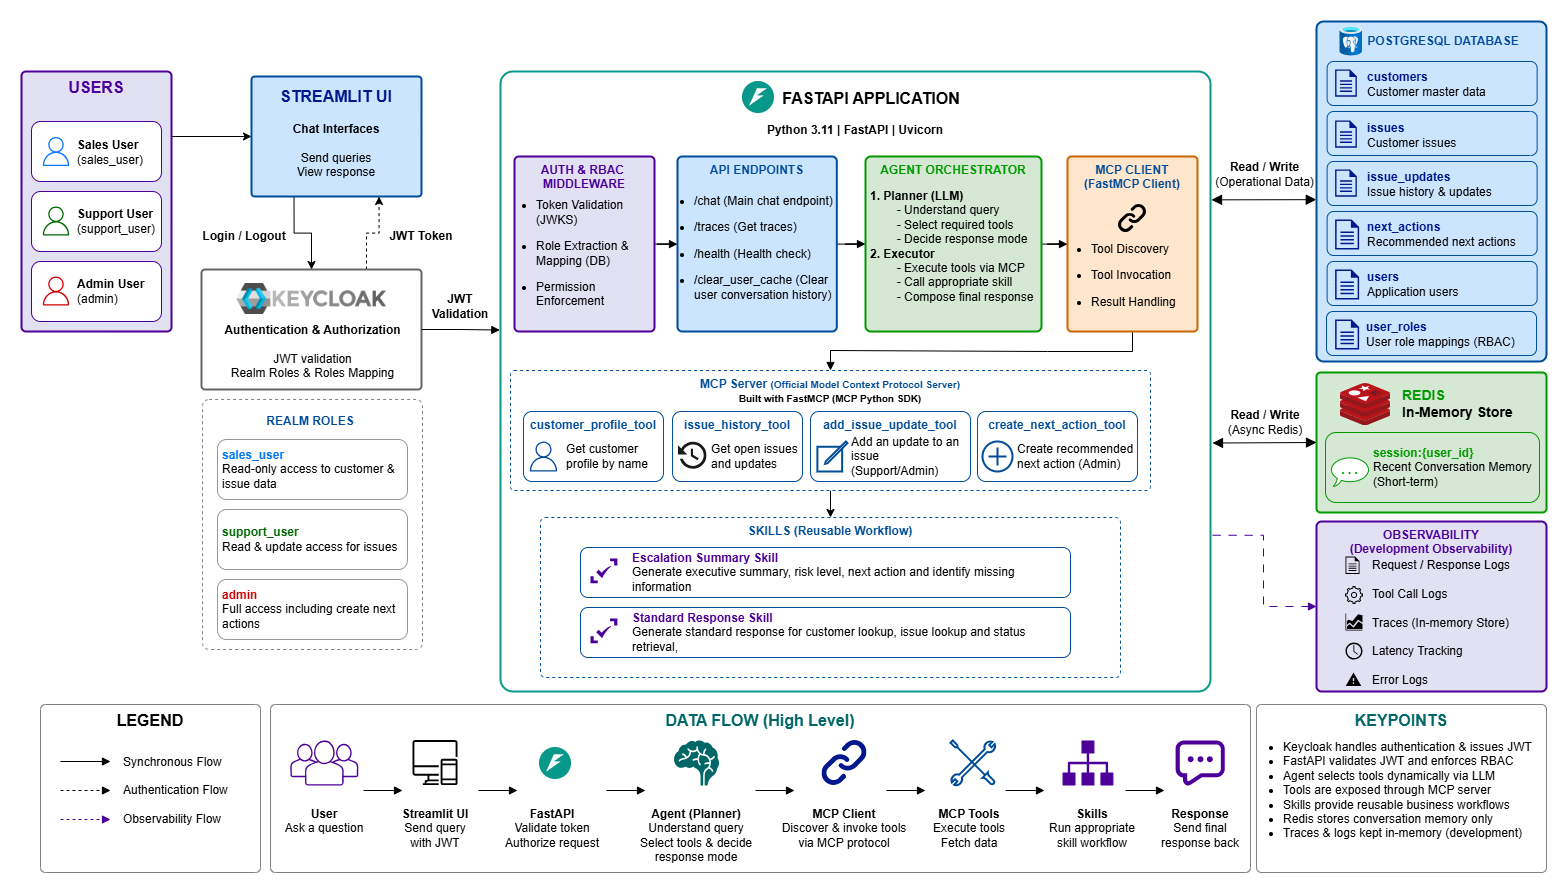
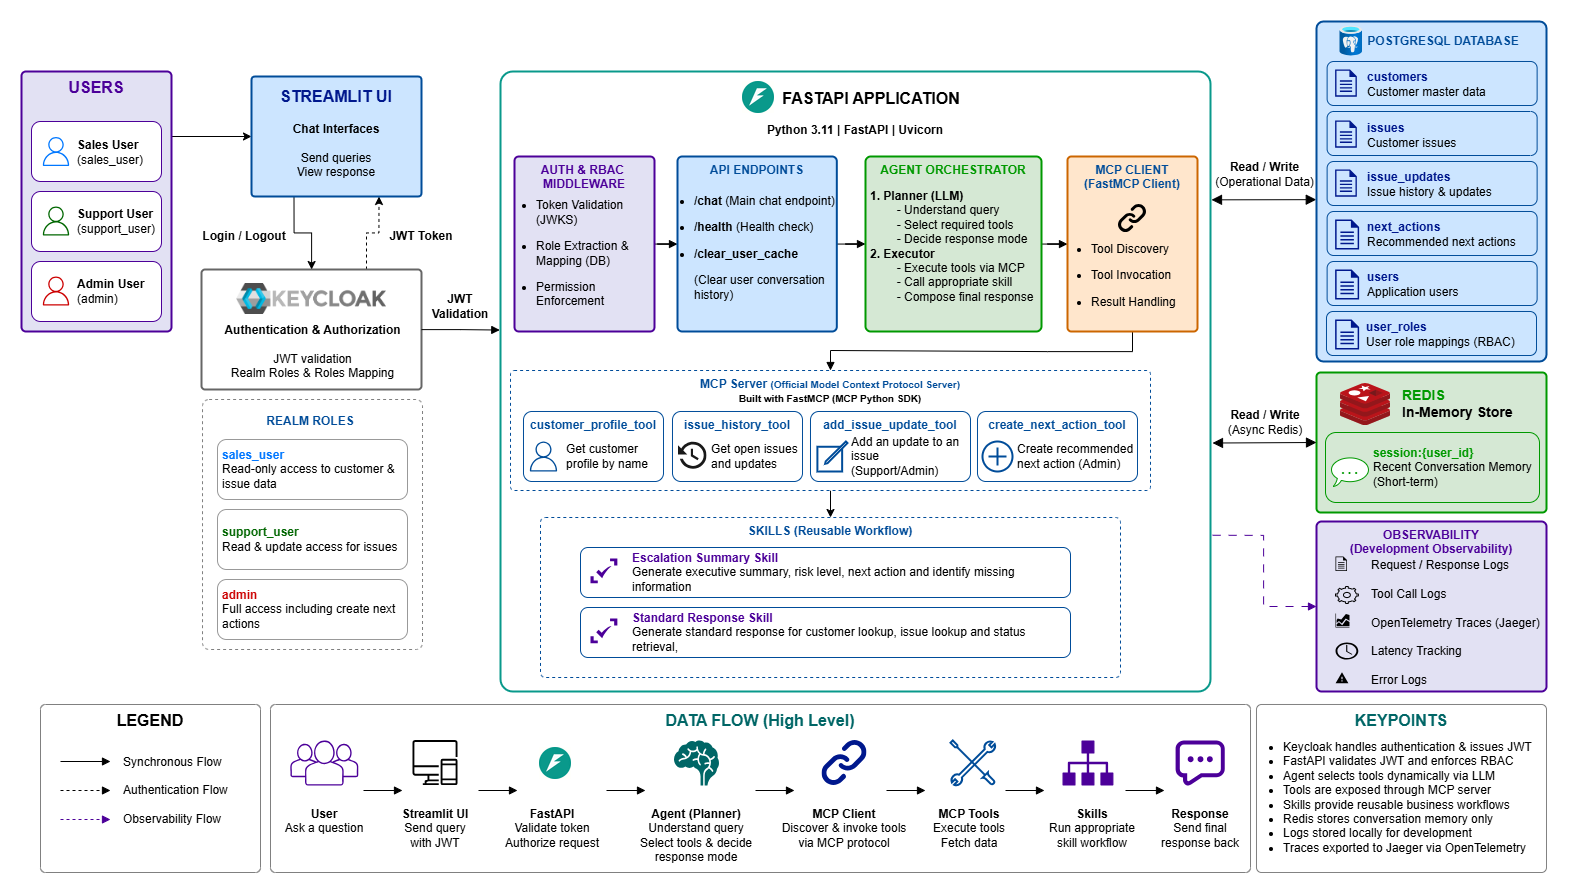
Twelfth commit

diff --git a/README.md b/README.md
@@ -75,7 +75,6 @@ Responsibilities include:
 
 Key endpoints include:
 - `/chat`
-- `/traces`
 - `/health`
 - `/clear_user_cache`
 
@@ -135,6 +134,12 @@ Benefits include:
 - Reusable integrations
 - Simplified agent architecture
 - Easier future integrations with enterprise systems
+
+Current MCP tools:
+- customer_profile_tool
+- issue_history_tool
+- add_issue_update_tool
+- crate_next_action_tool
 
 This approach allows new tools to be introduced without requiring changes to the core planning workflow.
 
@@ -237,7 +242,7 @@ The agent uses MCP to invoke enterprise capabilities such as customer profile re
 This demonstrates how enterprise systems can be integrated through a standards-based protocol while keeping agent orchestration logic clean, reusable, and maintainable.
  
 ## Observability
-The platform includes basic observability features to support debugging and operational visibility.
+The platform includes OpenTelemetry-based observability for debugging and operational visibility.
 
 Captured signals include:
 - Request logs
@@ -251,16 +256,17 @@ Captured signals include:
 
 These capabilities allow operators to understand how the agent reached a response and diagnose failures during execution.
 
-### Custom Trace Viewer
-A lightweight trace viewer is available through the Streamlit UI.
+### Trace Visualization
+Traces are exported through OpenTelemetry and visualized in Jaeger.
 
-The viewer provides visibility into:
+The Streamlit UI provides quick access to Jaeger for inspecting:
 - Planner decisions
 - MCP tool executions
-- Skill selection
-- Tool usage statistics
+- Skill execution
+- Tool usage patterns
+- End-to-end request traces
 
-- This enables end-to-end inspection of how the assistant generated a response and serves as a lightweight custom trace viewer for agent execution analysis.
+This provides a complete view of assistant execution flow for debugging and operational analysis.
 
 ## Running Locally
 
@@ -315,13 +321,16 @@ The assessment prioritizes a fully runnable local solution over production-scale
 The following simplifications were intentionally made:
 
 ### Observability
+The solution uses OpenTelemetry and Jaeger for local trace collection and visualization.
 
-Traces are currently stored in memory and exposed through a lightweight trace endpoint. Trace inspection is restricted to administrators because traces may contain operational metadata.
+The implementation focuses on local deployment and debugging rather than production-scale observability infrastructure.
 
-Production alternatives:
-- OpenTelemetry
+Production alternatives may include:
 - LangSmith
 - Arize Phoenix
+- Datadog
+- New Relic
+- Grafana Tempo
 
 ### Data
 
@@ -436,9 +445,10 @@ This implementation satisfies all mandatory assessment requirements:
 - MCP tool invocation works
 
 ### Observability
-- Traces visible
+- Jaeger Traces visible
 - Request logs visible
 - Tool execution logs visible
+- OpenTelemetry instrumentation active
 
 ### Deployment
 - Docker Compose starts entire stack

diff --git a/docs/mcp.md b/docs/mcp.md
@@ -1,11 +1,16 @@
 # MCP Integration
 ## What is MCP?
+
 Model Context Protocol (MCP) provides a standardized way for AI agents to discover and invoke tools.
+
 Instead of embedding tool implementations directly into agent logic, MCP exposes tools through a separate interface.
+
 ---
 ## Why MCP Was Used
 The assessment explicitly requires at least one MCP server.
+
 This project uses a dedicated MCP server to expose enterprise tools and separate tool implementation from agent orchestration.
+
 Benefits:
 - Separation of concerns
 - Independent tool lifecycle
@@ -14,7 +19,11 @@ Benefits:
 - Reduced coupling
 ---
 ## Architecture
-![MCP FLow](mcp_flow.png)
+![MCP Flow](mcp_flow.png)
+
+The FastAPI application acts as an MCP client and communicates with a dedicated MCP server using the official MCP Python SDK.
+
+The MCP server exposes enterprise tools that can be discovered and invoked by the agent. This separation allows tool implementations to evolve independently of planner and executor logic.
 
 ---
 ## Available MCP Tools
@@ -23,12 +32,28 @@ Retrieves:
 - Customer information
 - Customer health
 - Open issues
+- Issue updates associated with open issues
 ### issue_history_tool
 Retrieves:
 - Issue details
 - Issue updates
 - Historical activity
+### add_issue_update_tool
+Creates a new update for an existing issue.
 
+Typical use cases:
+- Recording troubleshooting progress
+- Capturing vendor updates
+- Logging customer communications
+- Tracking remediation actions
+### create_next_action_tool
+Creates and stores a recommended next action for an issue.
+
+Typical use cases:
+- Escalation planning
+- Follow-up task creation
+- Operational recommendations
+- Resolution tracking
 
 ---
 ## Why MCP Improves Enterprise Systems

diff --git a/docs/ai_usage.md b/docs/ai_usage.md
@@ -1,7 +1,9 @@
 # AI Tool Usage Notes
 ## Overview
 AI-assisted development tools were used throughout the implementation of this assessment.
+
 The objective was to accelerate development while maintaining full understanding and ownership of the final solution.
+
 ---
 ## Tools Used
 - ChatGPT
@@ -16,9 +18,12 @@ AI assistance was used for:
 - Prompt engineering
 - Documentation drafting
 - Evaluation dataset creation
+- OpenTelemetry instrumentation guidance
+- Jaeger integration guidance
 ---
 ## Human Validation
 All AI-generated output was reviewed before inclusion.
+
 Validation activities included:
 - Manual code review
 - Functional testing
@@ -26,27 +31,40 @@ Validation activities included:
 - Authentication testing
 - RBAC testing
 - Tool routing verification
+- OpenTelemetry trace verification
 - Evaluation execution
 ---
 ## Errors Identified During Development
 Examples of issues identified and corrected:
+
 ### Planner Validation Failures
 Early planner outputs occasionally omitted required fields.
+
 Validation logic and retry mechanisms were added to ensure structured outputs.
+
 ### Tool Routing Issues
+
 Several user prompts initially routed to incorrect tools.
+
 Prompt instructions and examples were refined to improve planner accuracy.
+
 ### Authentication Integration
+
 JWT validation and role extraction required multiple iterations before stable integration with Keycloak.
+
 ### Skill Routing
+
 Escalation workflows initially produced inconsistent outputs.
+
 Prompt structure was refined to enforce:
 - Executive Summary
 - Risk Level
 - Recommended Action
 - Missing Information
 ---
+
 ## What Was Not Delegated To AI
+
 The following activities remained under human control:
 - Architectural decisions
 - Security decisions
@@ -55,12 +73,16 @@ The following activities remained under human control:
 - Database schema design
 - Final testing and validation
 ---
+
 ## Production Considerations
+
 AI-generated code should not be accepted without review.
+
 Particular attention should always be paid to:
 - Security-sensitive code
 - Authentication logic
 - Authorization controls
 - Database access patterns
 - Infrastructure configuration
+
 Human oversight remains essential for production-grade systems.